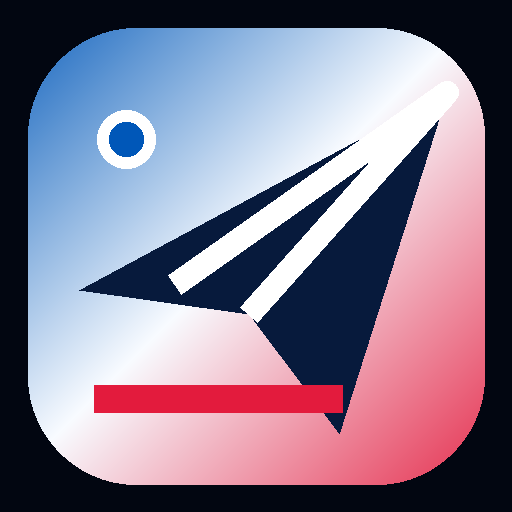
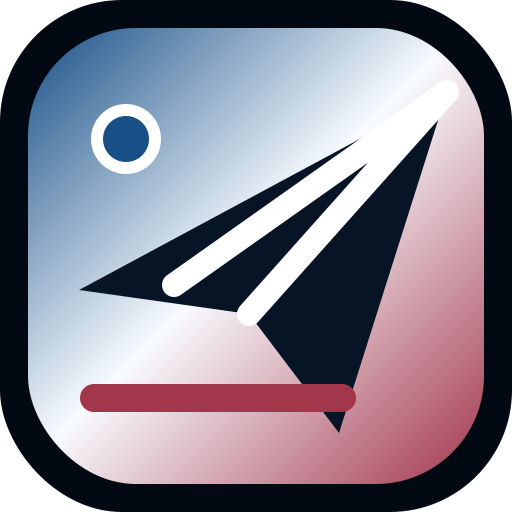
Add files via upload

diff --git a/sw.js b/sw.js
@@ -1,4 +1,4 @@
-const CACHE='flightintel-x6-v1';
+const CACHE='flightintel-x7-v1';
 const ASSETS=['./','./index.html','./manifest.webmanifest','./icon.svg','./icon-192.png','./icon-512.png'];
 self.addEventListener('install',e=>e.waitUntil(caches.open(CACHE).then(c=>c.addAll(ASSETS)).then(()=>self.skipWaiting())));
 self.addEventListener('activate',e=>e.waitUntil(caches.keys().then(keys=>Promise.all(keys.filter(k=>k!==CACHE).map(k=>caches.delete(k)))).then(()=>self.clients.claim())));

diff --git a/README.md b/README.md
@@ -1,4 +1,4 @@
-# FlightIntel X6
+# FlightIntel X7
 
 A GitHub Pages-ready progressive web app for BA Euroflyer planning workflows, redesigned in a premium red, white and blue glass cockpit theme.
 
@@ -27,3 +27,14 @@ The prototype uses Open-Meteo for model weather, Nager.Date for public-holiday c
 ## Safety
 
 FlightIntel is a planning prototype, not an approved EFB, company manual, operational flight plan, chart, METAR/TAF authority, NOTAM source or FTL authority. Verify every operational output against current BA Euroflyer manuals, roster systems, approved charts and authorised data sources.
+
+
+## X7 duty-planning upgrade
+
+- Comprehensive embedded BA Euroflyer short-haul network, including year-round and seasonal Gatwick destinations.
+- Multi-sector FDP planner with editable flight, taxi and turnaround times.
+- Backward latest-off-block calculations for every sector, including local time at the departure airport.
+- Planned extension validation by sectors and WOCL category.
+- Commander discretion reference calculated from the basic maximum FDP, not treated as a planning entitlement.
+
+All airport/runway data is reference-only and must be verified against current approved charts and company systems.